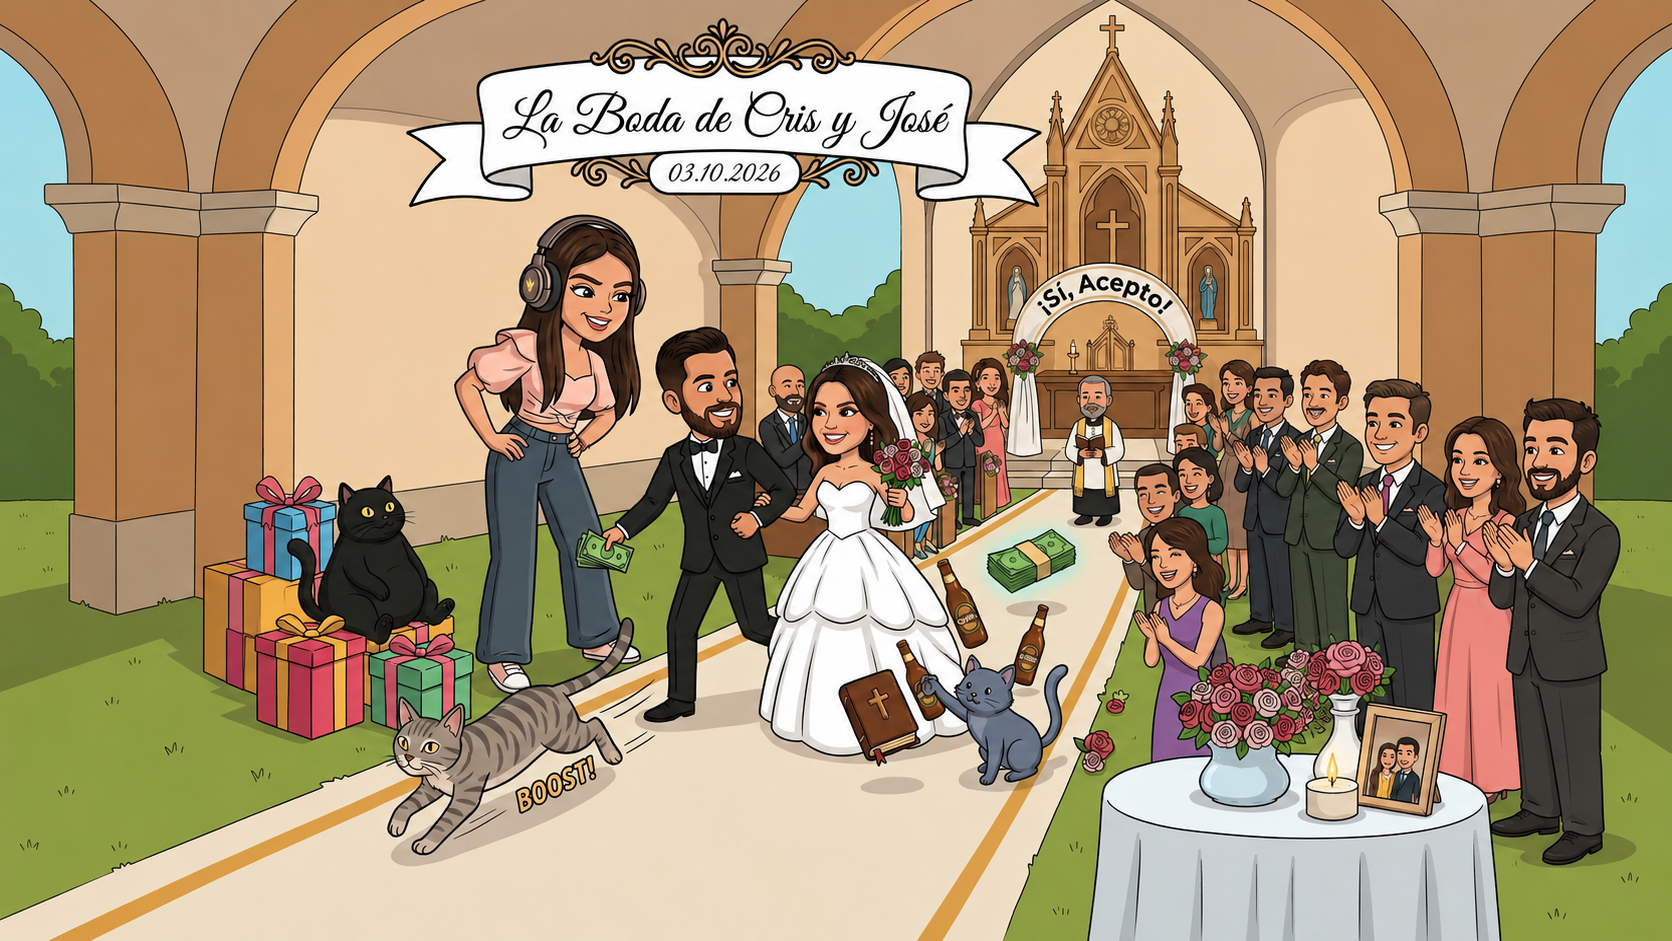
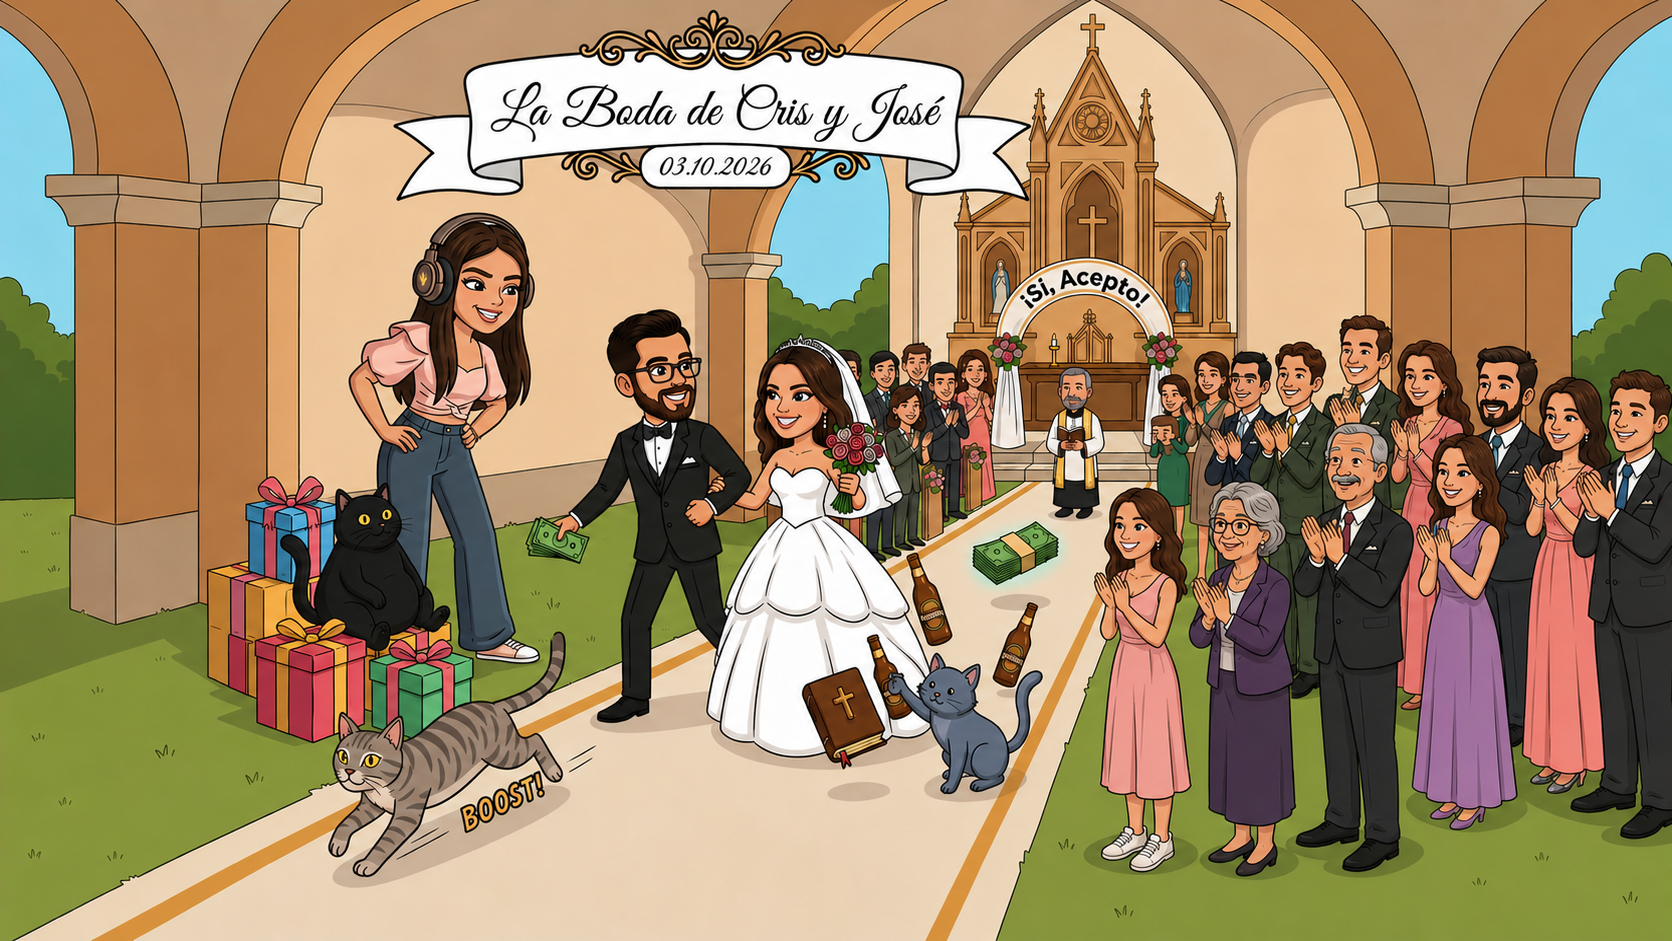
Tab title to Cris & José

diff --git a/game.html b/game.html
@@ -3,7 +3,7 @@
 <head>
   <meta charset="UTF-8"/>
   <meta name="viewport" content="width=device-width, initial-scale=1.0"/>
-  <title>Vale & Iker — Wedding Memory</title>
+  <title>Cris y José — Wedding Memory</title>
   <script src="https://unpkg.com/react@18/umd/react.development.js"></script>
   <script src="https://unpkg.com/react-dom@18/umd/react-dom.development.js"></script>
   <script src="https://unpkg.com/@babel/standalone/babel.min.js"></script>
